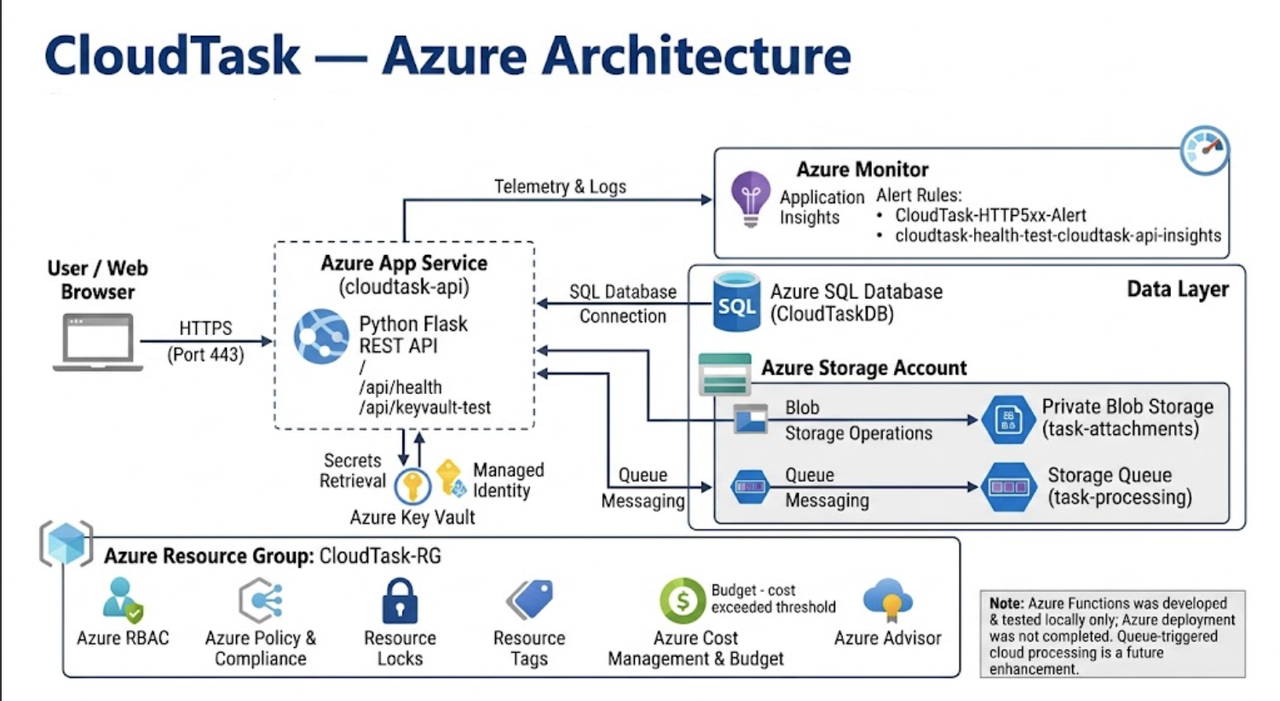
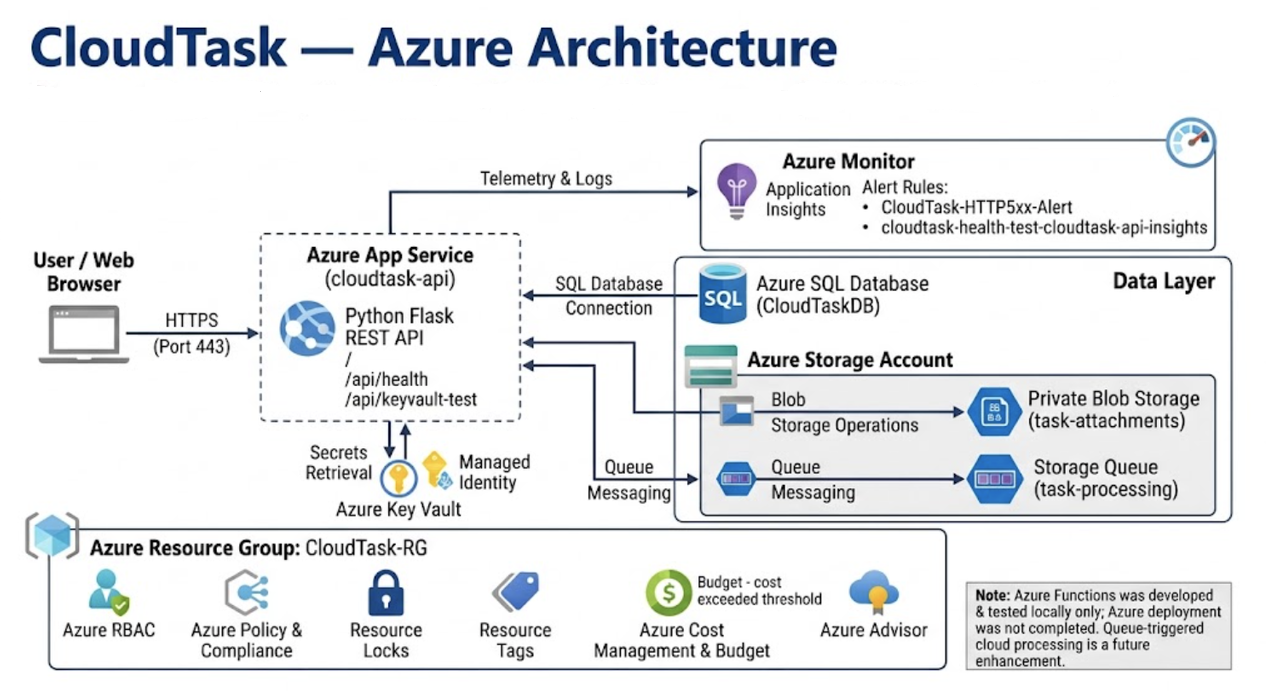
Add project overview and update architecture diagram

Changed region(s): [[0.0, 0.152, 0.9858, 0.9725], [0.0, 0.0304, 0.6777, 0.1216], [0.1848, 0.5774, 0.2156, 0.6078]]

diff --git a/docs/project-overview.md b/docs/project-overview.md
@@ -1,0 +1,204 @@
+# CloudTask — Project Overview
+
+## 1. Project Introduction
+
+CloudTask is a practical Azure cloud project that demonstrates how to deploy a Python backend application to Microsoft Azure and integrate it with cloud services for data storage, file management, security, monitoring, and resource governance.
+
+The application is built using Python and Flask and is hosted on Azure App Service. It exposes REST API endpoints that allow clients to interact with task-management data stored in an Azure SQL Database.
+
+The project also integrates Azure Blob Storage for file attachments, Azure Queue Storage for task-related messages, and Azure Key Vault for securely retrieving secrets using Managed Identity.
+
+In addition to application hosting and data integration, CloudTask demonstrates Azure administration concepts such as Role-Based Access Control (RBAC), Azure Policy, resource locks, cost monitoring, Application Insights, and Azure Monitor alerts.
+
+The primary goal is to gain hands-on experience with Azure services and understand how application development connects with cloud infrastructure and administration.
+
+## 2. What Does CloudTask Do?
+
+CloudTask provides backend API functionality for a task-management application.
+
+The application includes four main database tables:
+
+- **Users:** Stores user-related information.
+- **Projects:** Stores project-related information.
+- **Tasks:** Stores task-related information.
+- **Comments:** Stores comments associated with application records.
+
+The Flask application exposes REST API endpoints through which clients can send HTTP requests and receive responses.
+
+The implemented API functionality includes:
+
+- Retrieving user information and creating users.
+- Retrieving project information and creating projects.
+- Retrieving tasks and creating new tasks.
+- Updating existing tasks and deleting tasks.
+- Uploading files as task attachments.
+- Sending task-related messages to Azure Queue Storage.
+- Checking application health through dedicated health endpoints.
+- Testing Key Vault secret retrieval through a dedicated endpoint.
+
+The API communicates with Azure SQL Database to execute the application's database queries. Uploaded attachments are stored in Azure Blob Storage, while task-related messages are sent to Azure Queue Storage.
+
+**Important:** CloudTask is a backend REST API project, not a complete frontend task-management application. The documented functionality reflects the implemented API endpoints and integrations; it does not imply that every database table has a complete set of CRUD endpoints.
+
+## 3. High-Level Architecture
+
+The application follows a simple cloud-based architecture in which the Python backend is hosted on Azure App Service and connects to other Azure services as required.
+
+### Application Flow
+
+1. A client sends an HTTP request to the CloudTask REST API.
+2. Azure App Service hosts and runs the Python Flask application.
+3. The application processes the request and interacts with Azure SQL Database when database operations are required.
+4. When a task attachment is uploaded, the application sends the file to Azure Blob Storage.
+5. When task-related processing messages are required, the application sends messages to Azure Queue Storage.
+6. The application retrieves the required secret from Azure Key Vault using Managed Identity and the configured access permissions.
+7. Application Insights and Azure Monitor support application monitoring, troubleshooting, and alerting.
+8. Azure governance and management features help control access, enforce resource configuration requirements, protect resources, and monitor costs.
+
+These steps describe the overall design. The specific services involved depend on the API endpoint being called.
+
+### Main Azure Components
+
+**Azure App Service**
+
+Hosts the Python Flask REST API without requiring the project to manage the underlying virtual machines.
+
+**Azure SQL Database**
+
+Provides managed relational database storage for the Users, Projects, Tasks, and Comments tables.
+
+**Azure Blob Storage**
+
+Stores task attachment files uploaded through the API.
+
+**Azure Queue Storage**
+
+Stores task-related messages for asynchronous processing.
+
+**Azure Key Vault**
+
+Stores secrets that the application needs to retrieve securely.
+
+**Managed Identity**
+
+Provides an Azure-managed identity that the application can use to authenticate to supported Azure services without embedding credentials in application code.
+
+**Application Insights**
+
+Collects application telemetry to help investigate failures and understand application behaviour.
+
+**Azure Monitor**
+
+Supports monitoring and alert rules, including the configured HTTP 5xx error alert.
+
+**Azure RBAC and Azure Policy**
+
+RBAC controls access to Azure resources, while Azure Policy evaluates resource configurations against assigned governance requirements.
+
+**Resource Locks and Cost Management**
+
+Resource locks help protect resources against accidental deletion. Cost Management helps review Azure spending and configured budget information.
+
+## 4. Azure Concepts Demonstrated
+
+| Azure service or concept | Purpose in CloudTask |
+|---|---|
+| Azure App Service | Hosting the Python Flask REST API |
+| Azure SQL Database | Storing relational application data |
+| Azure Blob Storage | Storing uploaded task attachments |
+| Azure Queue Storage | Storing task-related processing messages |
+| Azure Key Vault | Secure storage and retrieval of secrets |
+| Managed Identity | Identity-based authentication to supported Azure services |
+| Azure RBAC | Managing resource access permissions |
+| Azure Policy | Evaluating resource compliance with governance requirements |
+| Application Insights | Collecting application telemetry and investigating failures |
+| Azure Monitor | Monitoring application behaviour and configuring alerts |
+| Resource Locks | Protecting Azure resources against accidental deletion |
+| Cost Management | Reviewing and managing cloud expenditure |
+| Azure Advisor | Reviewing recommendations for Azure resources |
+
+## 5. Security and Governance
+
+Security and governance are important parts of the CloudTask implementation.
+
+The project uses Azure Key Vault to manage secrets and Managed Identity to support secure authentication. Azure RBAC assignments control permissions for accessing Azure resources, including the required Key Vault access.
+
+Azure Policy is used to evaluate resource compliance with the project's governance requirements, including tag-related requirements.
+
+A resource lock is configured to help protect the project resources from accidental deletion. Azure Monitor alerting and Application Insights support the identification and investigation of application errors.
+
+Cost Management and Azure Advisor are used to explore cloud cost information and resource recommendations.
+
+These features demonstrate how an Azure-hosted application can be managed beyond simply deploying its application code.
+
+## 6. Monitoring and Troubleshooting
+
+CloudTask integrates Application Insights and Azure Monitor to demonstrate application monitoring.
+
+The monitoring setup includes application telemetry, failure investigation, metrics, a health-check web test, and an HTTP 5xx alert rule.
+
+HTTP 5xx responses indicate server-side HTTP errors. The configured alert rule helps identify matching failures so that they can be investigated.
+
+Monitoring results and alert notifications provide evidence of the configured monitoring capabilities. They do not necessarily indicate that the application is continuously experiencing errors.
+
+## 7. Azure Function — Development Scope
+
+An Azure Functions component was developed locally to explore serverless application development.
+
+However, the Function was not deployed to Azure as part of this project.
+
+Therefore, Azure Functions is included only as a local development component and is not part of the deployed Azure architecture.
+
+## 8. Project Scope
+
+CloudTask focuses on the following areas:
+
+- Developing a Python Flask REST API.
+- Deploying a backend application to Azure App Service.
+- Connecting the application to Azure SQL Database.
+- Integrating Blob Storage and Queue Storage.
+- Managing secrets through Azure Key Vault.
+- Configuring Managed Identity and Azure RBAC.
+- Exploring Azure Policy and resource compliance.
+- Configuring application monitoring and Azure Monitor alerts.
+- Applying resource protection and reviewing cloud costs.
+- Documenting the deployed architecture and implementation evidence.
+
+The project does not include a deployed Azure Functions application or a separately deployed virtual machine.
+
+## 9. Learning Outcomes
+
+By completing CloudTask, the project demonstrates practical experience in three areas.
+
+### Software Development
+
+- Building a REST API using Python and Flask.
+- Working with HTTP methods, request handling, and JSON responses.
+- Connecting application code to a relational database.
+- Integrating file uploads and queue messaging.
+
+### Azure Cloud Engineering
+
+- Deploying an application to Azure App Service.
+- Connecting a backend application to managed Azure services.
+- Using identity-based access to retrieve secrets.
+- Understanding how application components interact in a cloud environment.
+
+### Azure Administration
+
+- Configuring access permissions using RBAC.
+- Evaluating governance requirements using Azure Policy.
+- Monitoring application health and failures.
+- Creating and reviewing alert rules.
+- Protecting resources with locks.
+- Reviewing costs and Azure Advisor recommendations.
+
+## 10. Project Summary
+
+CloudTask is a hands-on Azure learning project that connects backend software development with cloud engineering and administration.
+
+It demonstrates how a Python REST API can be hosted on Azure App Service and integrated with managed database, storage, security, and monitoring services.
+
+The project also provides practical exposure to identity management, access control, governance, resource protection, and cost awareness.
+
+Together, these components provide a foundation for understanding how to deploy, secure, monitor, and manage a backend application in Microsoft Azure.
